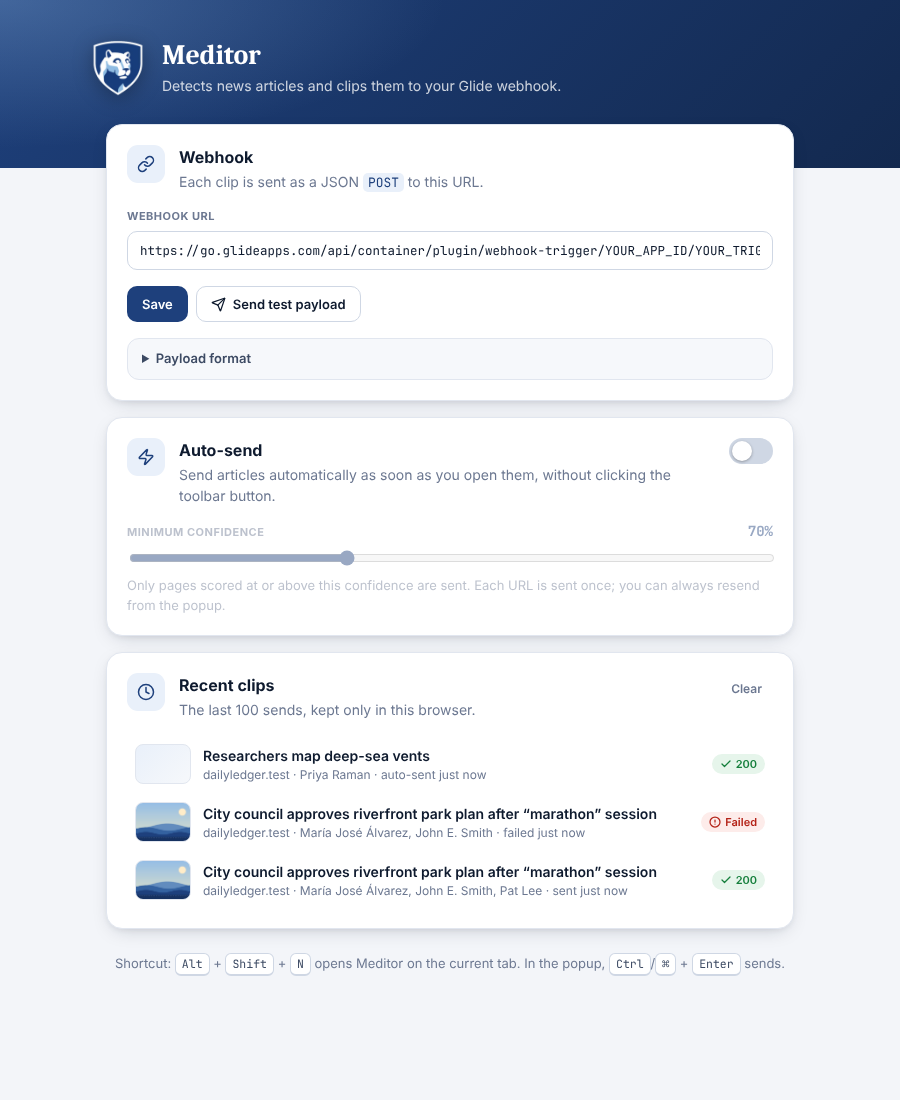
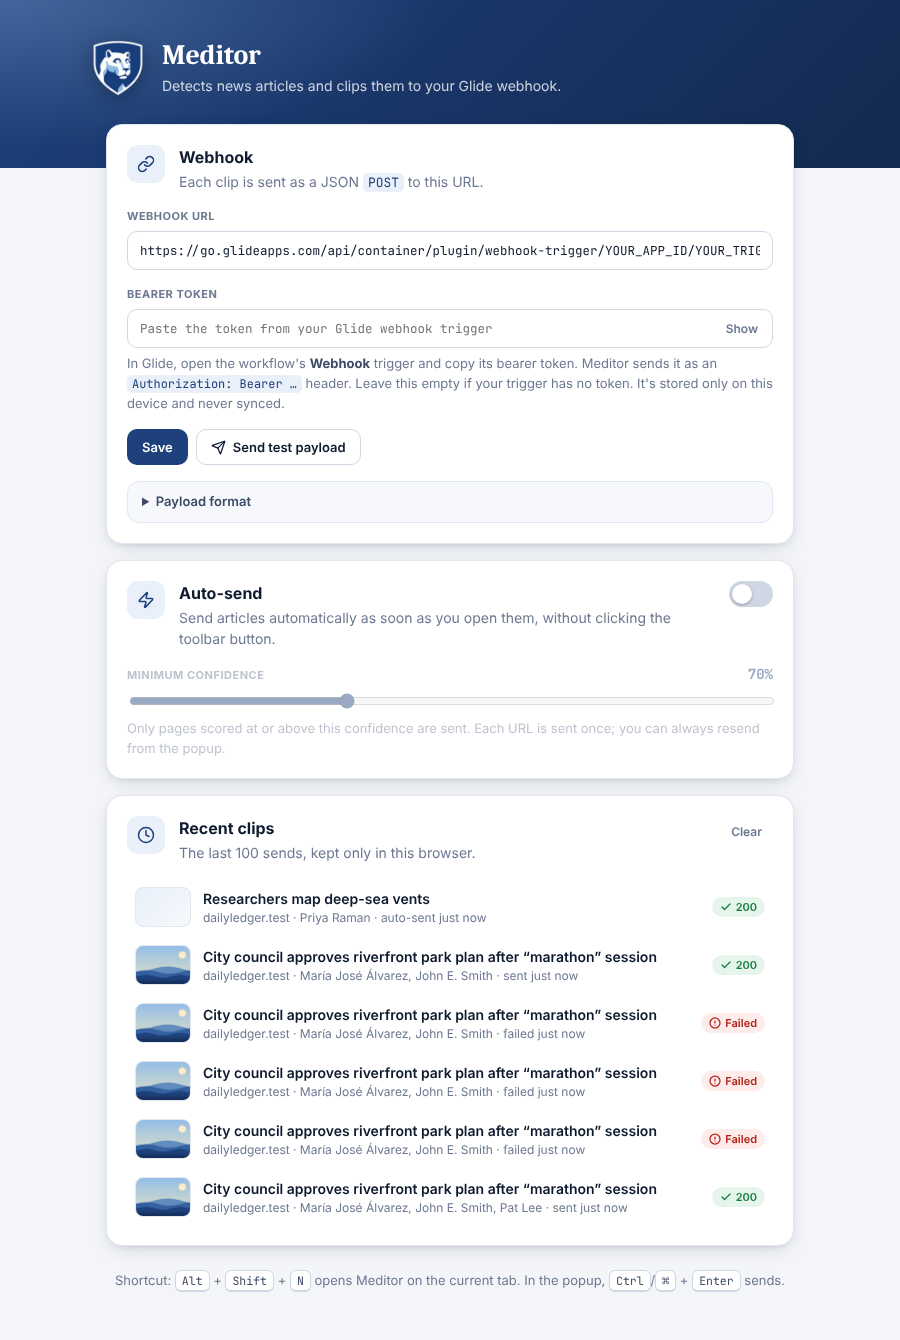
Send Glide's bearer token so webhook triggers stop returning 401
Glide webhook triggers with a bearer token reject requests that lack an
Authorization: Bearer <token> header with HTTP 401.

- Settings: new masked Bearer token field (accepts "abc" or "Bearer abc"),
  stored in chrome.storage.local only, never synced or written to history.
- Background adds the Authorization header when a token is set and turns
  401/403 into a clear message (missing vs rejected token).
- Popup shows an Open Settings link on auth errors; history shows the HTTP
  status of failed sends.
- package.sh can bake a token from the gitignored .webhook-token or
  $MEDITOR_WEBHOOK_TOKEN, like the webhook URL.
- Tests: stand-in webhook that requires a bearer token; missing, wrong and
  correct token cases, plus a check that the token never leaks to sync
  storage or history.
- Version 1.1.0.

Claude-Session: https://claude.ai/code/session_01RQuxLTJvHGFHymFda4vZiQ

Changed region(s): [[0.0, 0.0309, 1.0, 0.5873], [0.1244, 0.6182, 0.8711, 0.9582], [0.7778, 0.9273, 0.8711, 0.9582]]

diff --git a/extension/src/options/options.js b/extension/src/options/options.js
@@ -47,13 +47,17 @@ async function saveWebhook() {
     setStatus('bad', `Permission to contact ${shortHost(url)} was declined.`);
     return false;
   }
-  await saveSettings({ webhookUrl: url });
+  const saved = await saveSettings({ webhookUrl: url, webhookToken: $('token').value });
   $('webhook').value = url;
+  $('token').value = saved.webhookToken;
   return true;
 }
 
 async function onSave() {
-  if (await saveWebhook()) setStatus('ok', 'Saved');
+  if (await saveWebhook()) {
+    const { webhookToken } = await getSettings();
+    setStatus('ok', webhookToken ? 'Saved, with bearer token' : 'Saved');
+  }
 }
 
 async function onTest() {
@@ -63,7 +67,7 @@ async function onTest() {
   setStatus('', 'Sending test…');
   const res = await chrome.runtime.sendMessage({ type: 'meditor:send', payload: SAMPLE, source: 'test' }).catch((e) => ({ ok: false, error: String(e) }));
   btn.disabled = false;
-  if (res?.ok) setStatus('ok', `Webhook answered HTTP ${res.status}`);
+  if (res?.ok) setStatus('ok', `Webhook accepted the test (HTTP ${res.status})`);
   else setStatus('bad', res?.error || 'Test failed');
 }
 
@@ -124,7 +128,7 @@ async function renderHistory() {
     const tag = document.createElement('span');
     tag.className = `tag${h.ok ? '' : ' bad'}`;
     tag.innerHTML = `<svg><use href="#i-${h.ok ? 'check' : 'alert'}"/></svg>`;
-    tag.append(h.ok ? String(h.status || 'OK') : 'Failed');
+    tag.append(h.ok ? String(h.status || 'OK') : h.status ? `HTTP ${h.status}` : 'Failed');
     if (!h.ok) tag.title = h.error || '';
 
     li.append(thumb, main, tag);
@@ -135,6 +139,7 @@ async function renderHistory() {
 async function init() {
   const settings = await getSettings();
   $('webhook').value = settings.webhookUrl;
+  $('token').value = settings.webhookToken;
   $('webhook').placeholder = 'https://go.glideapps.com/api/container/plugin/webhook-trigger/…';
   // Builds packaged without a default webhook have nothing to reset to.
   $('reset').hidden = !DEFAULT_WEBHOOK_URL;
@@ -150,6 +155,13 @@ async function init() {
   $('reset').addEventListener('click', onReset);
   $('webhook').addEventListener('keydown', (e) => { if (e.key === 'Enter') onSave(); });
   $('webhook').addEventListener('input', () => setStatus('', ''));
+  $('token').addEventListener('input', () => setStatus('', ''));
+  $('token').addEventListener('keydown', (e) => { if (e.key === 'Enter') onSave(); });
+  $('token-toggle').addEventListener('click', () => {
+    const show = $('token').type === 'password';
+    $('token').type = show ? 'text' : 'password';
+    $('token-toggle').textContent = show ? 'Hide' : 'Show';
+  });
 
   $('auto').addEventListener('change', async (e) => renderAuto(await saveSettings({ autoSend: e.target.checked })));
   $('threshold').addEventListener('input', (e) => { $('threshold-out').textContent = `${e.target.value}%`; });

diff --git a/extension/src/background.js b/extension/src/background.js
@@ -53,7 +53,7 @@ async function lastSuccessfulSend(url) {
 
 async function sendToWebhook(rawPayload, { tabId, source = 'manual' } = {}) {
   const payload = toPayload(rawPayload);
-  const { webhookUrl } = await getSettings();
+  const { webhookUrl, webhookToken } = await getSettings();
   const entry = { id: crypto.randomUUID(), sentAt: Date.now(), source, payload, webhookUrl, ok: false };
 
   if (!payload.url) {
@@ -76,7 +76,11 @@ async function sendToWebhook(rawPayload, { tabId, source = 'manual' } = {}) {
   try {
     const res = await fetch(target.href, {
       method: 'POST',
-      headers: { 'Content-Type': 'application/json', Accept: 'application/json, text/plain, */*' },
+      headers: {
+        'Content-Type': 'application/json',
+        Accept: 'application/json, text/plain, */*',
+        ...(webhookToken ? { Authorization: `Bearer ${webhookToken}` } : {}),
+      },
       body: JSON.stringify(payload),
       signal: controller.signal,
       credentials: 'omit',
@@ -84,7 +88,14 @@ async function sendToWebhook(rawPayload, { tabId, source = 'manual' } = {}) {
     });
     const body = (await res.text().catch(() => '')).slice(0, 500);
     Object.assign(entry, { ok: res.ok, status: res.status, response: body });
-    if (!res.ok) entry.error = `Webhook responded ${res.status}${res.statusText ? ` ${res.statusText}` : ''}`;
+    if (res.status === 401 || res.status === 403) {
+      entry.authError = true;
+      entry.error = webhookToken
+        ? `The webhook rejected the bearer token (HTTP ${res.status}). Copy it again from the Glide trigger into Settings.`
+        : `The webhook requires a bearer token (HTTP ${res.status}). Add it in Settings.`;
+    } else if (!res.ok) {
+      entry.error = `Webhook responded ${res.status}${res.statusText ? ` ${res.statusText}` : ''}`;
+    }
   } catch (err) {
     let error = err?.name === 'AbortError' ? 'The webhook did not respond within 20 seconds.' : `Network error: ${err?.message || err}`;
     if (err?.name !== 'AbortError') {
@@ -99,7 +110,14 @@ async function sendToWebhook(rawPayload, { tabId, source = 'manual' } = {}) {
   if (source !== 'test') await addHistory(entry);
   if (entry.ok && tabId != null) await setBadge(tabId, 'sent');
 
-  return { ok: entry.ok, status: entry.status, error: entry.error, response: entry.response, sentAt: entry.sentAt };
+  return {
+    ok: entry.ok,
+    status: entry.status,
+    error: entry.error,
+    authError: !!entry.authError,
+    response: entry.response,
+    sentAt: entry.sentAt,
+  };
 }
 
 // -----------------------------------------------------------------------------

diff --git a/extension/src/shared/settings.js b/extension/src/shared/settings.js
@@ -4,6 +4,9 @@
 // app), so it is not committed. `npm run package` fills it in from the gitignored
 // .webhook-url file (or $MEDITOR_WEBHOOK_URL); otherwise set it in Settings.
 export const DEFAULT_WEBHOOK_URL = '';
+// Glide webhook triggers can require `Authorization: Bearer <token>`. Same treatment:
+// filled in from .webhook-token / $MEDITOR_WEBHOOK_TOKEN at packaging time, or in Settings.
+export const DEFAULT_WEBHOOK_TOKEN = '';
 
 export const DEFAULTS = Object.freeze({
   webhookUrl: DEFAULT_WEBHOOK_URL,
@@ -12,15 +15,34 @@ export const DEFAULTS = Object.freeze({
   autoSendThreshold: 70,
 });
 
+// Secrets stay on this device (chrome.storage.local) and are never synced to the Google account.
+export const LOCAL_DEFAULTS = Object.freeze({
+  webhookToken: DEFAULT_WEBHOOK_TOKEN,
+});
+
 export const HISTORY_LIMIT = 100;
 
+/** Accepts "abc123", "Bearer abc123" or a whole "Authorization: Bearer abc123" line. */
+export function normalizeToken(value) {
+  return String(value ?? '')
+    .trim()
+    .replace(/^authorization\s*:\s*/i, '')
+    .replace(/^bearer\s+/i, '')
+    .trim();
+}
+
 export async function getSettings() {
-  const stored = await chrome.storage.sync.get(DEFAULTS);
-  return { ...DEFAULTS, ...stored };
+  const [synced, local] = await Promise.all([
+    chrome.storage.sync.get(DEFAULTS),
+    chrome.storage.local.get(LOCAL_DEFAULTS),
+  ]);
+  return { ...DEFAULTS, ...synced, webhookToken: normalizeToken(local.webhookToken) };
 }
 
 export async function saveSettings(patch) {
-  await chrome.storage.sync.set(patch);
+  const { webhookToken, ...synced } = patch;
+  if (webhookToken !== undefined) await chrome.storage.local.set({ webhookToken: normalizeToken(webhookToken) });
+  if (Object.keys(synced).length) await chrome.storage.sync.set(synced);
   return getSettings();
 }
 

diff --git a/extension/src/options/options.css b/extension/src/options/options.css
@@ -61,7 +61,7 @@ code { font-size: .92em; padding: 1px 5px; border-radius: 5px; background: var(-
 .field { display: grid; gap: 6px; }
 .field__label { font-size: 11px; font-weight: 650; letter-spacing: .5px; text-transform: uppercase; color: var(--muted); }
 
-input[type="url"] {
+input[type="url"], input#token {
   width: 100%;
   font: 12.5px/1.4 var(--mono);
   color: var(--ink);
@@ -71,7 +71,12 @@ input[type="url"] {
   padding: 10px 12px;
   transition: border-color .15s, box-shadow .15s;
 }
-input[type="url"]:focus { outline: none; border-color: var(--focus); box-shadow: 0 0 0 3px color-mix(in srgb, var(--focus) 22%, transparent); }
+input[type="url"]:focus, input#token:focus { outline: none; border-color: var(--focus); box-shadow: 0 0 0 3px color-mix(in srgb, var(--focus) 22%, transparent); }
+
+.secret { position: relative; display: flex; align-items: center; }
+.secret input { padding-right: 72px; }
+.secret .btn { position: absolute; right: 4px; }
+.field .hint b { color: var(--ink-2); }
 
 .row { display: flex; flex-wrap: wrap; align-items: center; gap: 8px; }
 

diff --git a/extension/src/options/options.html b/extension/src/options/options.html
@@ -44,6 +44,14 @@
         <span class="field__label">Webhook URL</span>
         <input id="webhook" type="url" spellcheck="false" autocomplete="off" />
       </label>
+      <div class="field">
+        <label class="field__label" for="token">Bearer token</label>
+        <div class="secret">
+          <input id="token" type="password" spellcheck="false" autocomplete="off" placeholder="Paste the token from your Glide webhook trigger" />
+          <button type="button" class="btn btn--ghost btn--sm" id="token-toggle" aria-controls="token">Show</button>
+        </div>
+        <p class="hint">In Glide, open the workflow's <b>Webhook</b> trigger and copy its bearer token. Meditor sends it as an <code>Authorization: Bearer …</code> header. Leave this empty if your trigger has no token. It's stored only on this device and never synced.</p>
+      </div>
       <div class="row">
         <button class="btn btn--primary" id="save">Save</button>
         <button class="btn" id="test"><svg><use href="#i-send"/></svg>Send test payload</button>

diff --git a/extension/src/popup/popup.css b/extension/src/popup/popup.css
@@ -444,6 +444,17 @@ input::placeholder { color: var(--muted); opacity: .8; }
 .footer__note.ok { color: var(--ok); }
 .footer__note.bad { color: var(--bad); }
 .footer__note code { font: 10.5px var(--mono); }
+.footer__note.bad { flex-wrap: wrap; line-height: 1.35; }
+.footer__fix {
+  border: 0;
+  padding: 0;
+  background: none;
+  color: inherit;
+  font: 650 11px var(--sans);
+  text-decoration: underline;
+  text-underline-offset: 2px;
+  cursor: pointer;
+}
 
 /* ---------------------------------------------------------------- Empty / loading */
 

diff --git a/extension/src/popup/popup.js b/extension/src/popup/popup.js
@@ -429,6 +429,14 @@ async function send() {
     note.classList.add('bad');
     note.textContent = res?.error || 'Unknown error';
     note.title = res?.response || '';
+    if (res?.authError || res?.needsSetup) {
+      const fix = document.createElement('button');
+      fix.type = 'button';
+      fix.className = 'footer__fix';
+      fix.textContent = 'Open Settings';
+      fix.addEventListener('click', () => chrome.runtime.openOptionsPage());
+      note.append(fix);
+    }
   }
 }
 

diff --git a/README.md b/README.md
@@ -32,13 +32,23 @@ Clips go to your Glide **webhook trigger** URL
 ## Install
 
 1. Get the extension folder, either way:
-   - Unzip a packaged build (`meditor-extension-v1.0.0.zip`), which already has your webhook built in.
+   - Unzip a packaged build (`meditor-extension-v1.1.0.zip`), which already has your webhook built in.
    - Or clone this repo and use the `extension/` folder.
 2. Open `chrome://extensions` and switch on **Developer mode** (top right).
 3. Click **Load unpacked** and pick the unzipped folder (or `extension/`).
 4. Pin Meditor from the puzzle-piece menu so the shield stays on your toolbar.
 
 If the build has no webhook built in, Settings opens on install. Paste your Glide webhook URL and press **Save**.
+
+### Glide bearer token (fixes HTTP 401)
+
+If your Glide webhook trigger has a **bearer token**, Glide rejects any request without it with **401 Unauthorized**. To fix it:
+
+1. In Glide, open the workflow, select the **Webhook** trigger, and copy the bearer token from the right-hand panel.
+2. In Meditor **Settings**, paste it into **Bearer token**. Either `abc123` or `Bearer abc123` works.
+3. Press **Save**, then **Send test payload** to confirm.
+
+Meditor sends the token as `Authorization: Bearer <token>`. It is stored only on this device (`chrome.storage.local`), is never synced, and is never written to the clip history. If you'd rather not use a token, delete it on the Glide trigger (the ✕ button), but then anyone with the URL can post to your app.
 
 Works in Chrome 110+ and other Chromium browsers (Edge, Brave, Arc).
 
@@ -49,9 +59,11 @@ Anyone holding a Glide webhook trigger URL can post rows into your app, so treat
 - a gitignored `.webhook-url` file at the repo root, or
 - the `MEDITOR_WEBHOOK_URL` environment variable
 
+The bearer token works the same way, from `.webhook-token` or `MEDITOR_WEBHOOK_TOKEN`.
+
 ```bash
 echo 'https://go.glideapps.com/api/container/plugin/webhook-trigger/<app>/<trigger>' > .webhook-url
-npm run package      # → dist/meditor-extension-v1.0.0.zip with that URL as the default
+npm run package      # → dist/meditor-extension-v<version>.zip with that URL as the default
 ```
 
 If a URL ever leaks, rotate it in Glide: delete the webhook trigger and create a new one.
@@ -68,7 +80,7 @@ If a URL ever leaks, rotate it in Glide: delete the webhook trigger and create a
 
 Right-click the icon and choose **Options**, or click the gear in the popup.
 
-- **Webhook URL**: change the destination, send a test payload, or reset to the built-in default. Saving a URL on another host asks Chrome for permission to contact that host only.
+- **Webhook URL** and **Bearer token**: change the destination, send a test payload, or reset to the built-in default. Saving a URL on another host asks Chrome for permission to contact that host only.
 - **Auto-send** (off by default): sends articles as soon as you open them if their score meets your minimum confidence (default 70%). Each URL is sent only once.
 - **Recent clips**: the last 100 sends with status, kept only in this browser.
 
@@ -125,7 +137,7 @@ npm install          # Playwright for the tests
 npm test             # extractor + full extension end-to-end tests
 npm run screenshots  # tests, plus refreshed images in docs/
 npm run icons        # rebuild icons from assets/logo-source.png
-npm run package      # dist/meditor-extension-v<version>.zip (+ .webhook-url, if present)
+npm run package      # dist/meditor-extension-v<version>.zip (+ .webhook-url / .webhook-token, if present)
 ```
 
 The end-to-end tests load the real extension in Chromium and drive the badge, popup, editing, sending, error handling, auto-send and settings page. They post to a local stand-in webhook, never the real Glide one.
